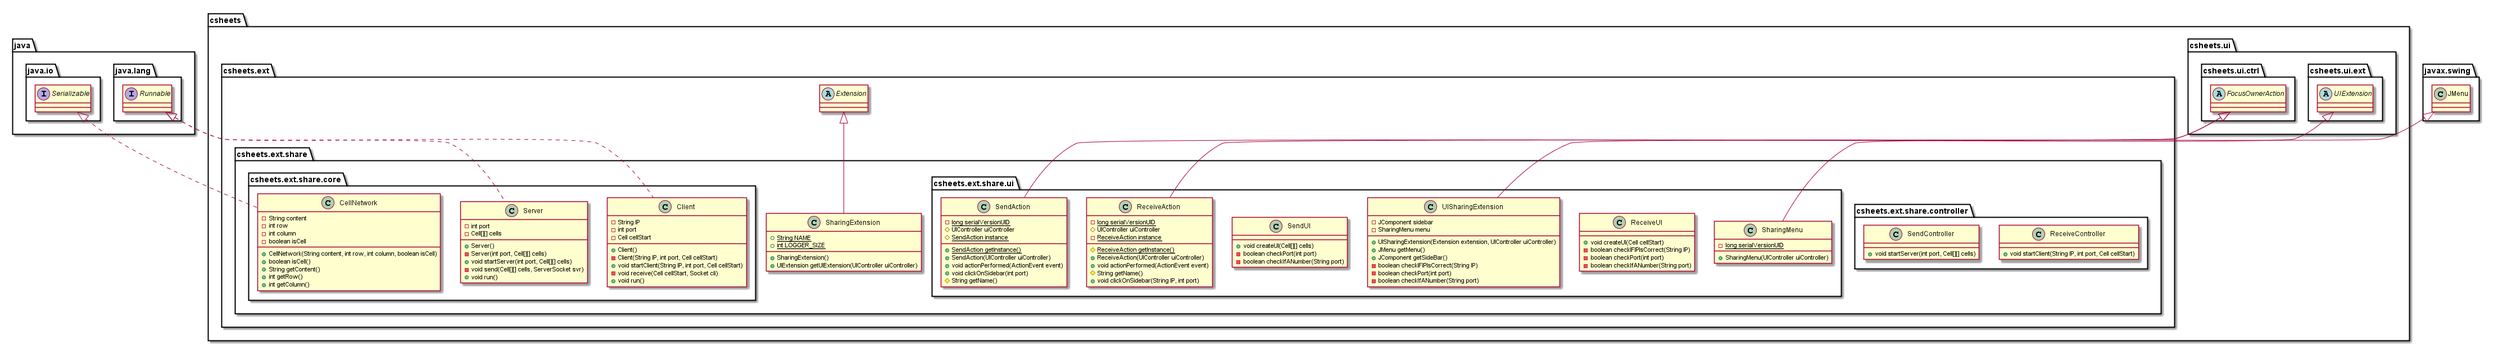
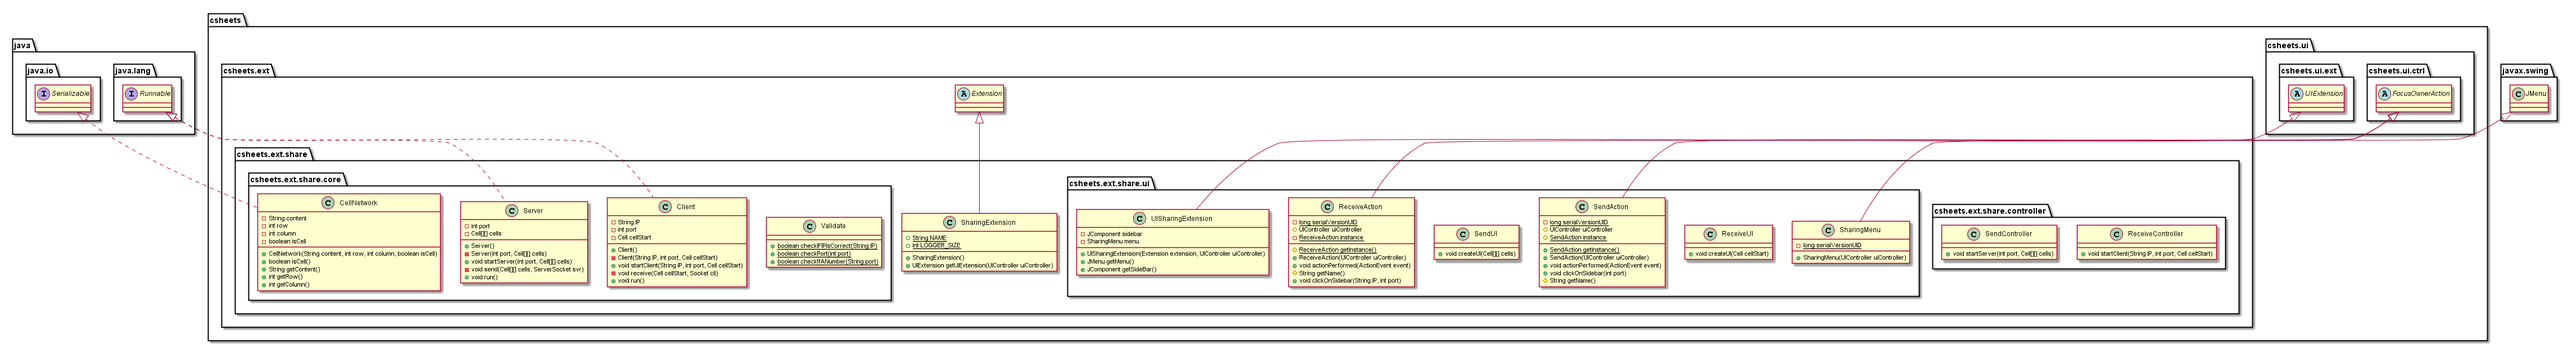
1100859: Added new class to centralize all validations on this extension. Also updated Class Diagram ref #1 #2

diff --git a/src/csheets/ext/share/ui/UISharingExtension.java b/src/csheets/ext/share/ui/UISharingExtension.java
@@ -8,6 +8,7 @@ import javax.swing.border.TitledBorder;
 
 import csheets.ext.Extension;
 import csheets.ext.share.SharingExtension;
+import csheets.ext.share.core.Validate;
 import csheets.ui.ctrl.UIController;
 import csheets.ui.ext.UIExtension;
 
@@ -74,9 +75,9 @@ public class UISharingExtension extends UIExtension {
 		@Override
 		public void actionPerformed(ActionEvent e) {
 		    String portTemp = sendPort.getText();
-		    if (checkIfANumber(portTemp)) {
+		    if (Validate.checkIfANumber(portTemp)) {
 			int port = Integer.parseInt(portTemp);
-			if (checkPort(port)) {
+			if (Validate.checkPort(port)) {
 			    SendAction.getInstance().clickOnSidebar(port);
 			} else {
 			    JOptionPane.showMessageDialog(null,
@@ -105,11 +106,11 @@ public class UISharingExtension extends UIExtension {
 		@Override
 		public void actionPerformed(ActionEvent e) {
 		    String portTemp = recPort.getText();
-		    if (checkIfANumber(portTemp)) {
+		    if (Validate.checkIfANumber(portTemp)) {
 			int port = Integer.parseInt(portTemp);
-			if (checkPort(port)) {
+			if (Validate.checkPort(port)) {
 			    String IP = recIP.getText();
-			    if (checkIFIPIsCorrect(IP)) {
+			    if (Validate.checkIFIPIsCorrect(IP)) {
 				ReceiveAction.getInstance().clickOnSidebar(IP,
 					port);
 			    } else {
@@ -154,40 +155,4 @@ public class UISharingExtension extends UIExtension {
 	}
 	return sidebar;
     }
-
-    /**
-     * Check if the introduced IP was valid
-     * 
-     * @param IP
-     *            IP to be checked
-     * @return true if IP is valid or if equal to localhost
-     */
-    private boolean checkIFIPIsCorrect(String IP) {
-	return IP
-		.matches("^((25[0-5]|2[0-4][0-9]|1[0-9]{2}|[0-9]{1,2})\\.){3}(25[0-5]|2[0-4][0-9]|1[0-9]{2}|[0-9]{1,2})$")
-		|| IP.equalsIgnoreCase("localhost");
-    }
-
-    /**
-     * Check the port if is on allowed communication ports
-     * 
-     * @param port
-     *            port to be tested
-     * @return the result of the test
-     */
-    private boolean checkPort(int port) {
-	return ((port > 49152) && (port < 65535));
-    }
-
-    /**
-     * Check if the port passed is an number
-     * 
-     * @param port
-     *            port to be tested
-     * @return true if the port is a number
-     */
-    private boolean checkIfANumber(String port) {
-	return port.matches("^[0-9]+$");
-    }
-
 }

diff --git a/src/csheets/ext/share/ui/ReceiveUI.java b/src/csheets/ext/share/ui/ReceiveUI.java
@@ -4,6 +4,7 @@ import javax.swing.JOptionPane;
 
 import csheets.core.Cell;
 import csheets.ext.share.controller.ReceiveController;
+import csheets.ext.share.core.Validate;
 
 /**
  * Create a user interface for the receive action
@@ -30,7 +31,7 @@ public class ReceiveUI {
 	    IP = JOptionPane
 		    .showInputDialog("Please input an IP.\nIPv4 or localhost");
 	    if (IP != null) {
-		IPIsNotCorrect = !checkIFIPIsCorrect(IP);
+		IPIsNotCorrect = !Validate.checkIFIPIsCorrect(IP);
 	    } else {
 		break;
 	    }
@@ -40,10 +41,10 @@ public class ReceiveUI {
 	    String portTemp = JOptionPane
 		    .showInputDialog("Please input a port (49152 to 65535)");
 	    if (portTemp != null) {
-		portAsNumber = checkIfANumber(portTemp);
+		portAsNumber = Validate.checkIfANumber(portTemp);
 		if (portAsNumber) {
 		    port = Integer.parseInt(portTemp);
-		    portIsNotCorrect = !checkPort(port);
+		    portIsNotCorrect = !Validate.checkPort(port);
 		}
 	    } else {
 		break;
@@ -55,40 +56,4 @@ public class ReceiveUI {
 	    rc.startClient(IP, port, cellStart);
 	}
     }
-
-    /**
-     * Check if the introduced IP was valid
-     * 
-     * @param IP
-     *            IP to be checked
-     * @return true if IP is valid or if equal to localhost
-     */
-    private boolean checkIFIPIsCorrect(String IP) {
-	return IP
-		.matches("^((25[0-5]|2[0-4][0-9]|1[0-9]{2}|[0-9]{1,2})\\.){3}(25[0-5]|2[0-4][0-9]|1[0-9]{2}|[0-9]{1,2})$")
-		|| IP.equalsIgnoreCase("localhost");
-    }
-
-    /**
-     * Check the port if is on allowed communication ports
-     * 
-     * @param port
-     *            port to be tested
-     * @return the result of the test
-     */
-    private boolean checkPort(int port) {
-	return ((port > 49152) && (port < 65535));
-    }
-
-    /**
-     * Check if the port passed is an number
-     * 
-     * @param port
-     *            port to be tested
-     * @return true if the port is a number
-     */
-    private boolean checkIfANumber(String port) {
-	return port.matches("^[0-9]+$");
-    }
-
 }

diff --git a/src/csheets/ext/share/ui/SendUI.java b/src/csheets/ext/share/ui/SendUI.java
@@ -4,6 +4,7 @@ import javax.swing.JOptionPane;
 
 import csheets.core.Cell;
 import csheets.ext.share.controller.SendController;
+import csheets.ext.share.core.Validate;
 
 /**
  * Create a user interface for the send action
@@ -27,10 +28,10 @@ public class SendUI {
 	    String portTemp = JOptionPane
 		    .showInputDialog("Please input a port (49152 to 65535)");
 	    if (portTemp != null) {
-		portAsNumber = checkIfANumber(portTemp);
+		portAsNumber = Validate.checkIfANumber(portTemp);
 		if (portAsNumber) {
 		    port = Integer.parseInt(portTemp);
-		    portIsNotCorrect = !checkPort(port);
+		    portIsNotCorrect = !Validate.checkPort(port);
 		}
 	    } else {
 		break;
@@ -41,27 +42,4 @@ public class SendUI {
 	    sc.startServer(port, cells);
 	}
     }
-
-    /**
-     * Check the port if is on allowed communication ports
-     * 
-     * @param port
-     *            port to be tested
-     * @return the result of the test
-     */
-    private boolean checkPort(int port) {
-	return ((port > 49152) && (port < 65535));
-    }
-
-    /**
-     * Check if the port passed is an number
-     * 
-     * @param port
-     *            port to be tested
-     * @return true if the port is a number
-     */
-    private boolean checkIfANumber(String port) {
-	return port.matches("^[0-9]+$");
-    }
-
 }

diff --git a/src/csheets/ext/share/package-info.java b/src/csheets/ext/share/package-info.java
@@ -290,6 +290,13 @@
  end package
 
  package csheets.ext.share.core
+
+ class Validate {
+ +{static}boolean checkIFIPIsCorrect(String IP)
+ +{static}boolean checkPort(int port)
+ +{static}boolean checkIfANumber(String port)
+ }
+
  class Client {
  -String IP
  -int port
@@ -337,9 +344,6 @@
 
  class ReceiveUI {
  +void createUI(Cell cellStart)
- -boolean checkIFIPIsCorrect(String IP)
- -boolean checkPort(int port)
- -boolean checkIfANumber(String port)
  }
 
  class SendAction {
@@ -354,8 +358,6 @@
  }
  class SendUI {
  +void createUI(Cell[][] cells)
- -boolean checkPort(int port)
- -boolean checkIfANumber(String port)
  }
 
  class SharingMenu {
@@ -368,9 +370,6 @@
  +UISharingExtension(Extension extension, UIController uiController)
  +JMenu getMenu()
  +JComponent getSideBar()
- -boolean checkIFIPIsCorrect(String IP)
- -boolean checkPort(int port)
- -boolean checkIfANumber(String port)
  }
  end package
  end package
